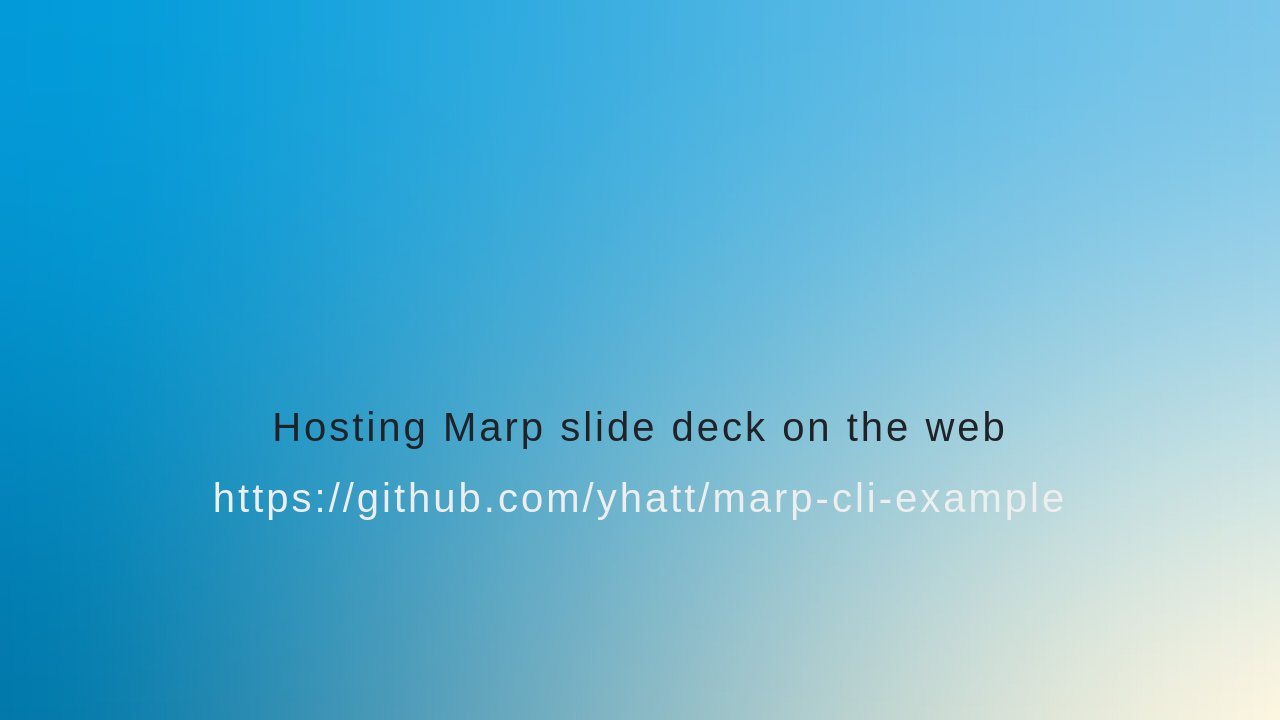
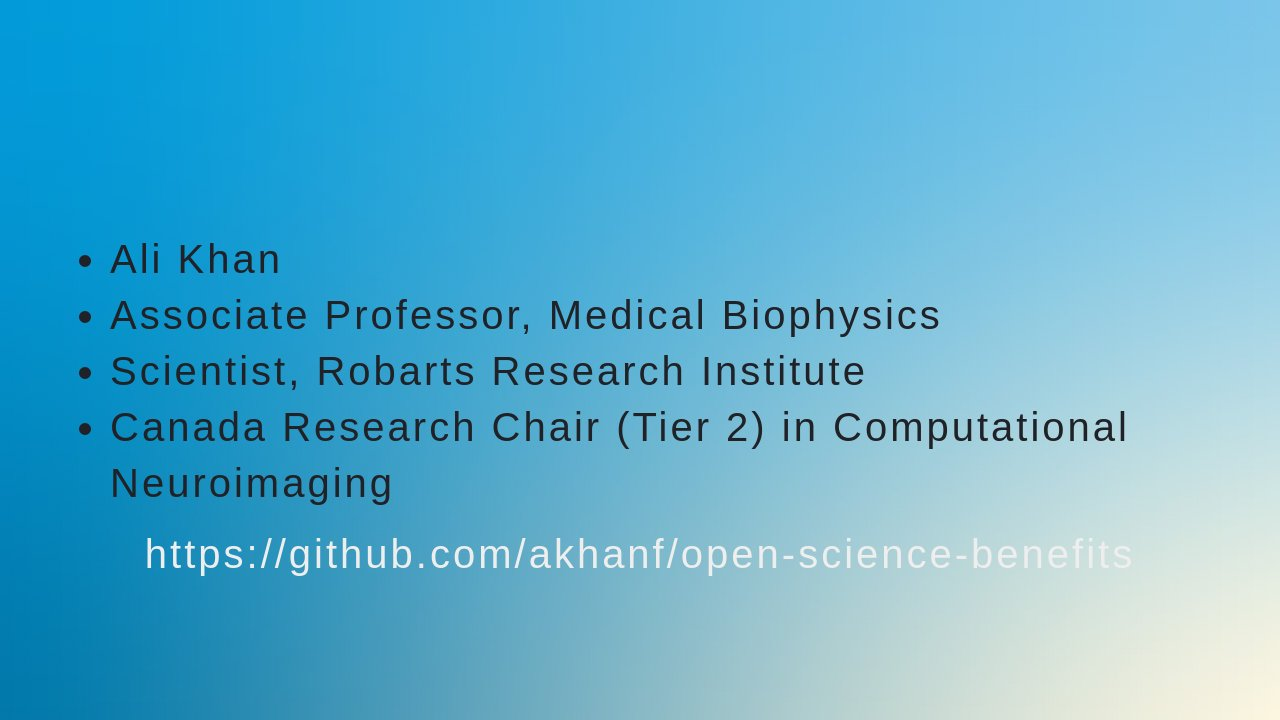
Deploying to gh-pages from  @ a224062d42c79158cfe0c899fe574b01565e961e 🚀

diff --git a/index.html b/index.html
@@ -8,12 +8,17 @@
  * @auto-scaling true
  * @size 16:9 1280px 720px
  * @size 4:3 960px 720px
[1 lines of base64/hex data omitted]
-<h1 is="marp-h1" data-auto-scaling> Marp CLI example</h1>
-<p>Hosting Marp slide deck on the web</p>
-<p><a href="https://github.com/yhatt/marp-cli-example">https://github.com/yhatt/marp-cli-example</a></p>
[1 lines of base64/hex data omitted]
+<h1 is="marp-h1" data-auto-scaling> How you can benefit from open science practices</h1>
+<ul>
+<li data-marpit-fragment="1">Ali Khan</li>
+<li data-marpit-fragment="2">Associate Professor, Medical Biophysics</li>
+<li data-marpit-fragment="3">Scientist, Robarts Research Institute</li>
+<li data-marpit-fragment="4">Canada Research Chair (Tier 2) in Computational Neuroimaging</li>
+</ul>
+<p><a href="https://github.com/akhanf/open-science-benefits">https://github.com/akhanf/open-science-benefits</a></p>
 </section>
-</foreignObject><foreignObject width="1280" height="720" data-marpit-advanced-background="pseudo"><section data-marpit-scope-8BSUF4pO="" data-theme="uncover" style="" data-marpit-advanced-background="pseudo"></section></foreignObject></svg><svg data-marpit-svg="" viewBox="0 0 1280 720"><foreignObject width="1280" height="720"><section data-paginate="true" data-theme="uncover" data-marpit-pagination="2" data-marpit-pagination-total="8" style="--paginate:true;--theme:uncover;" data-marpit-advanced-background="background"><div data-marpit-advanced-background-container="true" data-marpit-advanced-background-direction="horizontal"><figure style="background-image:url(&quot;https://raw.githubusercontent.com/marp-team/marp/master/marp.png&quot;);background-size:60%;"></figure></div></section></foreignObject><foreignObject width="1280" height="720"><section id="2" data-paginate="true" data-theme="uncover" data-marpit-pagination="2" data-marpit-pagination-total="8" style="--paginate:true;--theme:uncover;" data-marpit-advanced-background="content"></section>
+</foreignObject><foreignObject width="1280" height="720" data-marpit-advanced-background="pseudo"><section data-marpit-scope-6EgdCgJP="" data-marpit-fragments="4" data-theme="uncover" style="" data-marpit-advanced-background="pseudo"></section></foreignObject></svg><svg data-marpit-svg="" viewBox="0 0 1280 720"><foreignObject width="1280" height="720"><section data-paginate="true" data-theme="uncover" data-marpit-pagination="2" data-marpit-pagination-total="8" style="--paginate:true;--theme:uncover;" data-marpit-advanced-background="background"><div data-marpit-advanced-background-container="true" data-marpit-advanced-background-direction="horizontal"><figure style="background-image:url(&quot;https://raw.githubusercontent.com/marp-team/marp/master/marp.png&quot;);background-size:60%;"></figure></div></section></foreignObject><foreignObject width="1280" height="720"><section id="2" data-paginate="true" data-theme="uncover" data-marpit-pagination="2" data-marpit-pagination-total="8" style="--paginate:true;--theme:uncover;" data-marpit-advanced-background="content"></section>
 </foreignObject><foreignObject width="1280" height="720" data-marpit-advanced-background="pseudo"><section data-paginate="true" data-theme="uncover" data-marpit-pagination="2" data-marpit-pagination-total="8" style="" data-marpit-advanced-background="pseudo"></section></foreignObject></svg><svg data-marpit-svg="" viewBox="0 0 1280 720"><foreignObject width="1280" height="720"><section id="3" data-paginate="true" data-background-color="#123" data-color="#fff" data-theme="uncover" data-marpit-pagination="3" data-marpit-pagination-total="8" style="--paginate:true;--background-color:#123;--color:#fff;--theme:uncover;color:#fff;background-color:#123;background-image:none;">
 <h5 is="marp-h5" data-auto-scaling> <a href="https://github.com/marp-team/marp-cli">Marp CLI</a> + <a href="https://github.com/pages">GitHub Pages</a> | <a href="https://www.netlify.com/">Netlify</a> | <a href="https://vercel.com/">Vercel</a></h5>
 <h5 is="marp-h5" data-auto-scaling> <img class="emoji" draggable="false" alt="👉" src="https://twemoji.maxcdn.com/v/14.0.2/svg/1f449.svg" data-marp-twemoji=""/> The easiest way to host<br />your Marp deck on the web</h5>
